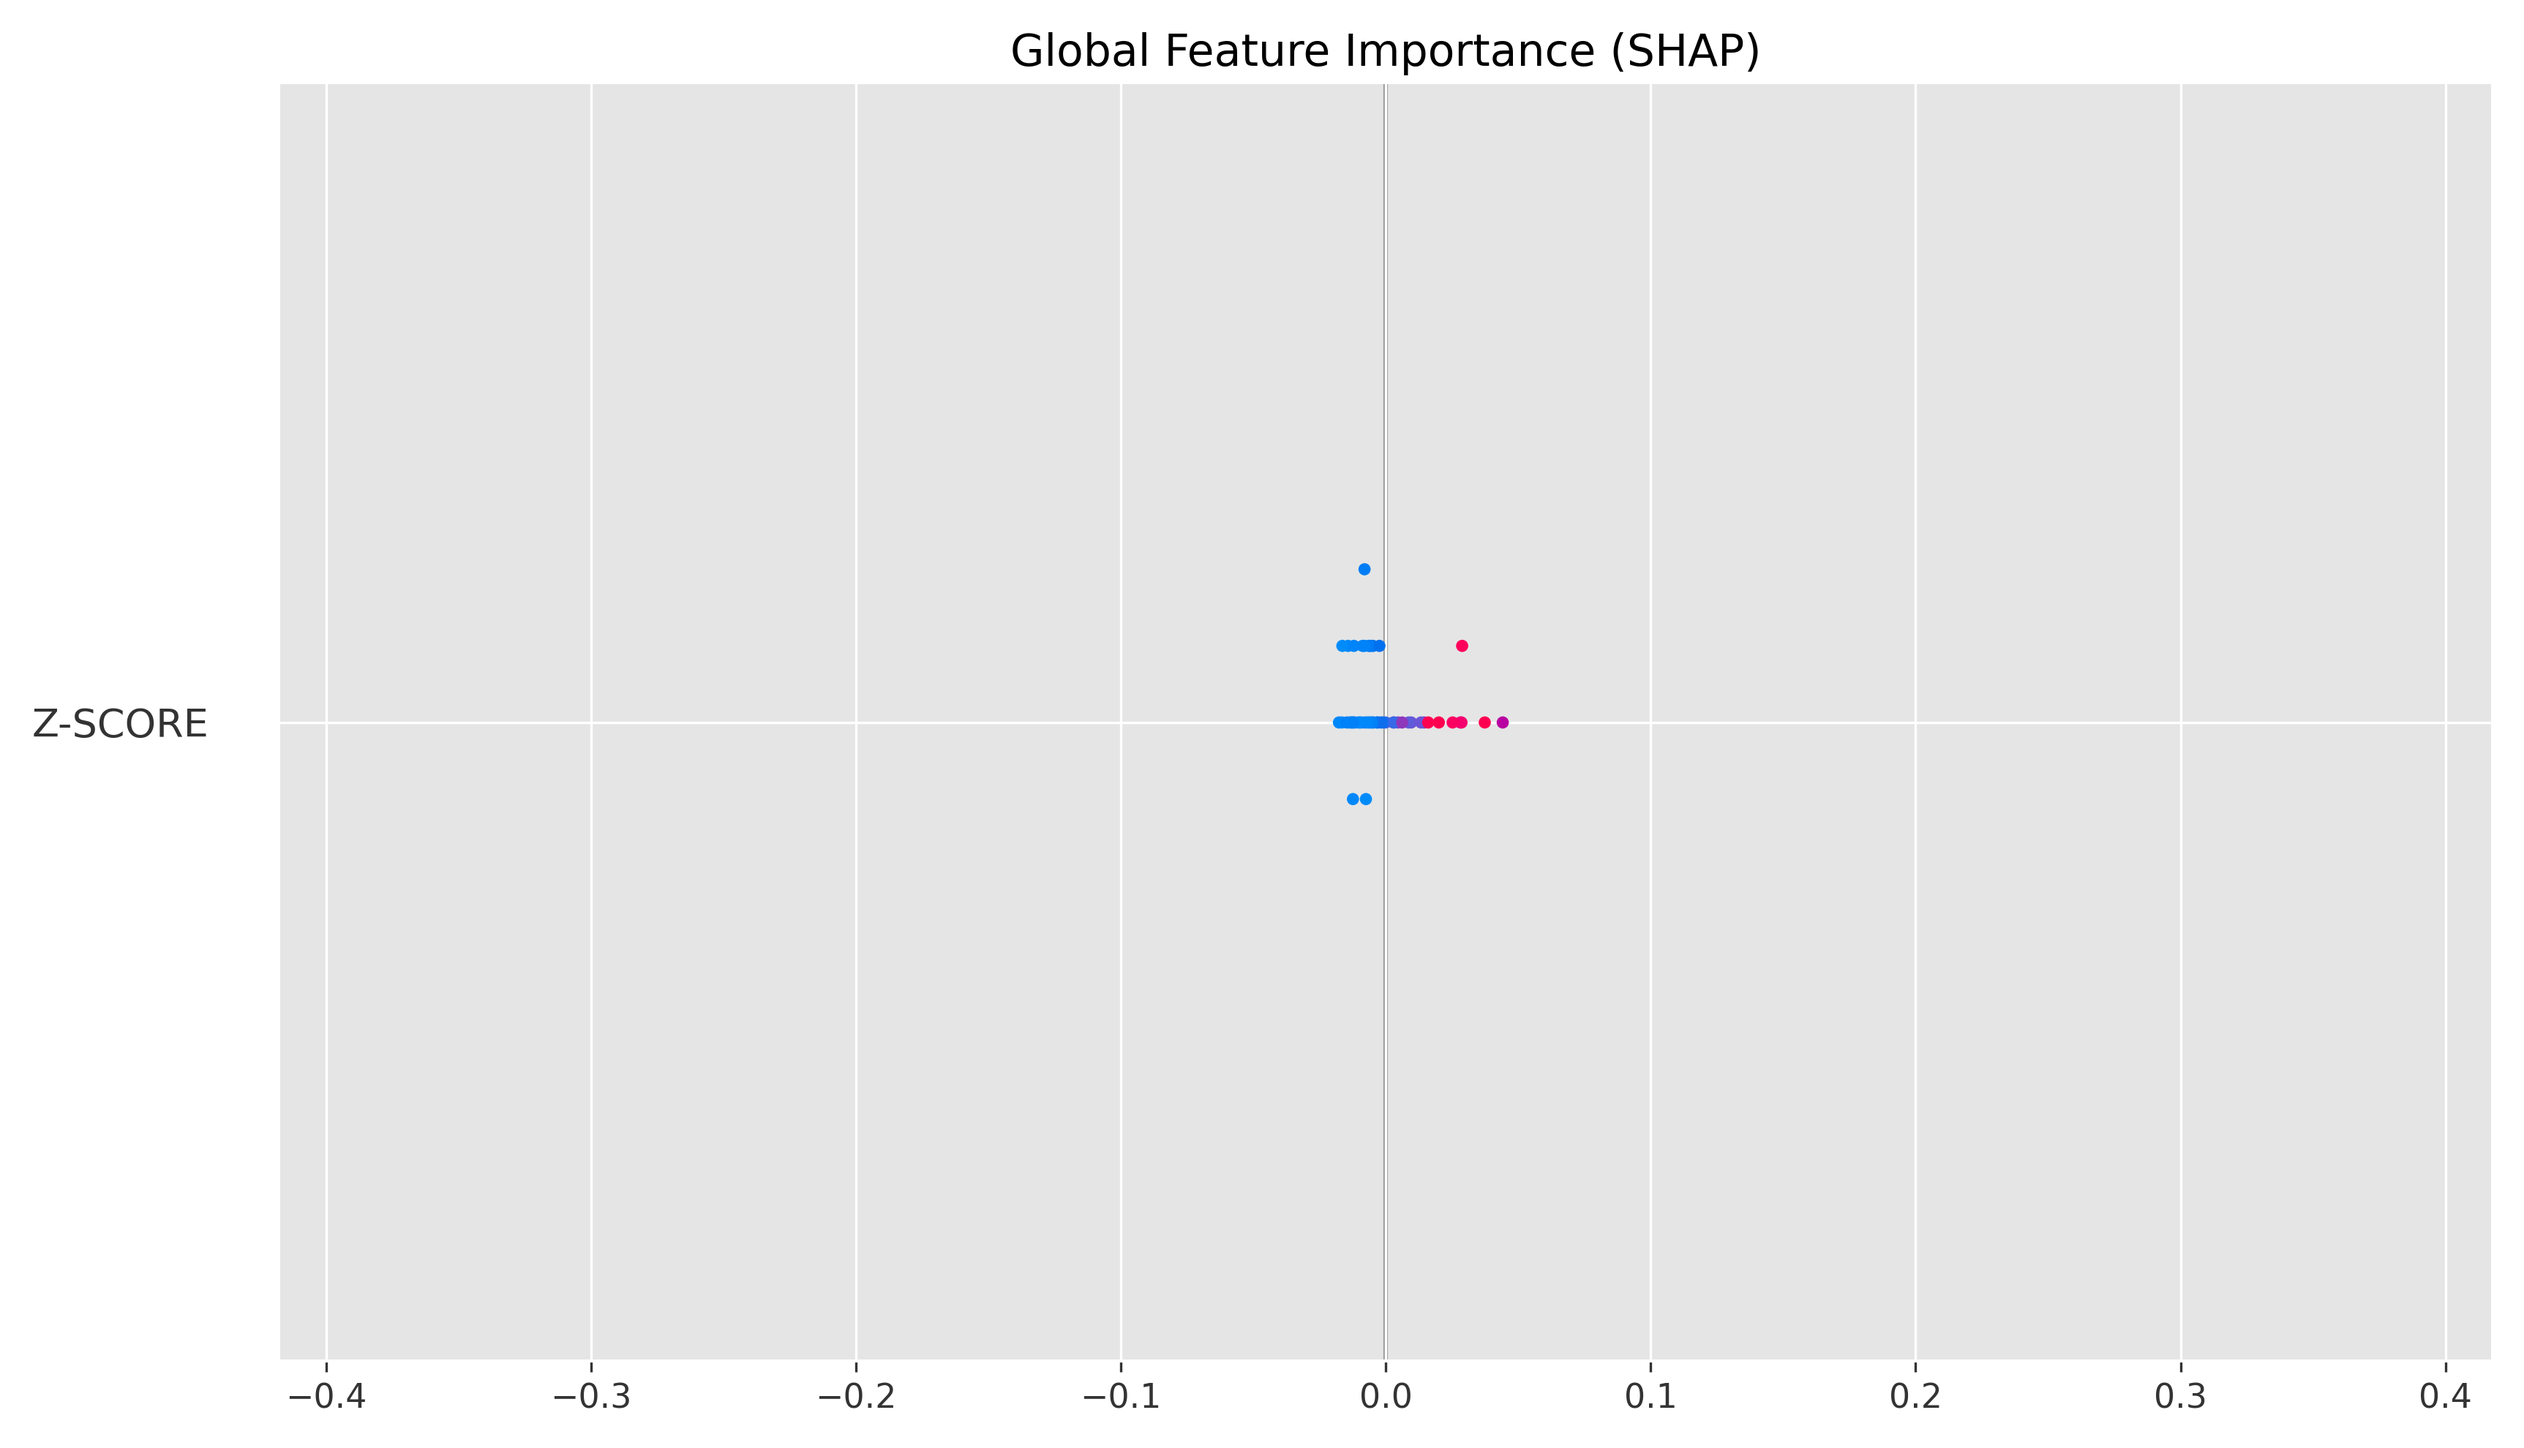
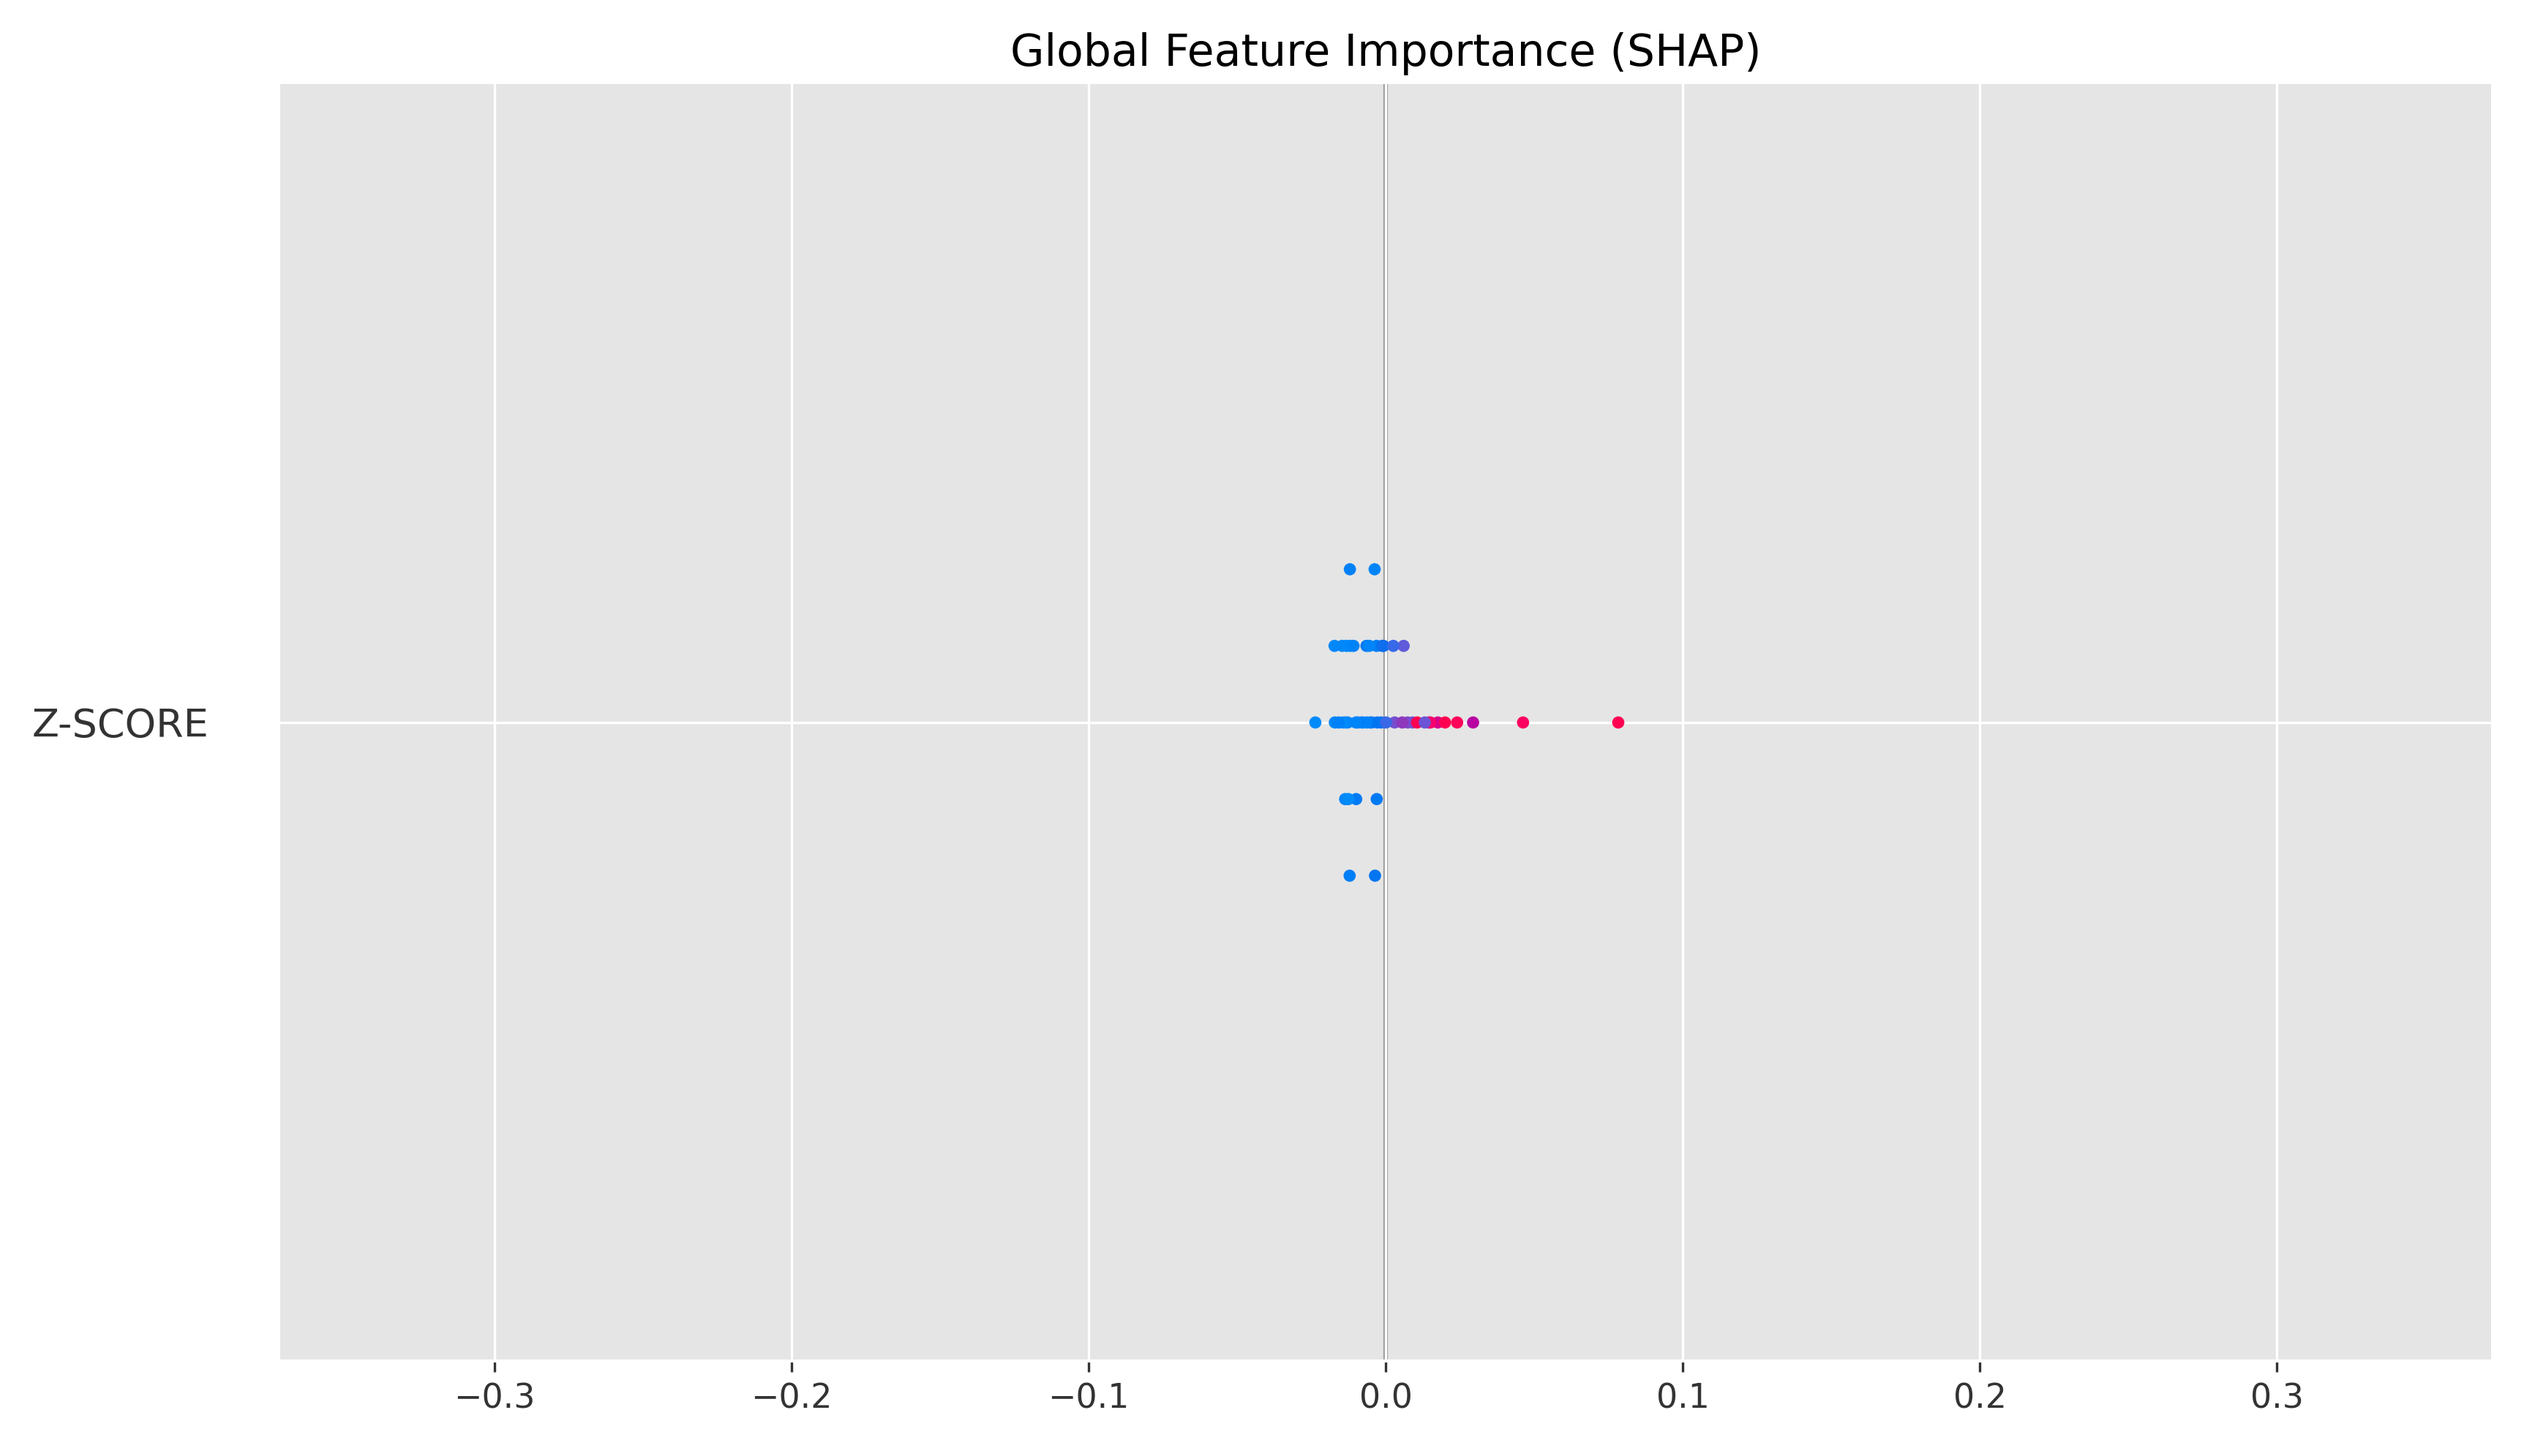
better shap

diff --git a/MLP.py b/MLP.py
@@ -259,6 +259,7 @@ def perform_shap_analysis(model, X_train_sample, X_test_sample, feature_names):
     1. 计算特征重要性
     2. 可视化全局特征重要性
     3. 可视化个体样本解释
+    4. 将特征重要性保存到evaluation_results.txt
     """
     print("\n正在进行SHAP分析...")
 
@@ -290,7 +291,34 @@ def perform_shap_analysis(model, X_train_sample, X_test_sample, feature_names):
         if isinstance(shap_values, list):
             shap_values = shap_values[0]  # 对于二分类问题取第一个元素
 
-        # 全局特征重要性
+        # 计算全局特征重要性(取绝对值后求平均)
+        global_shap_values = np.abs(shap_values).mean(axis=0)
+
+        # 确保feature_names和global_shap_values都是一维的
+        if len(feature_names) != len(global_shap_values):
+            raise ValueError(
+                f"特征名称数量({len(feature_names)})与SHAP值数量({len(global_shap_values)})不匹配"
+            )
+
+        # 确保global_shap_values是一维的
+        if global_shap_values.ndim > 1:
+            global_shap_values = global_shap_values.flatten()
+
+        # 创建特征重要性DataFrame
+        feature_importance = pd.DataFrame(
+            {"feature": feature_names, "importance": global_shap_values}
+        ).sort_values("importance", ascending=False)
+
+        # 将特征重要性追加到evaluation_results.txt
+        with open("MLP/evaluation_results.txt", "a") as f:
+            f.write("\n\n=== SHAP特征重要性 ===\n")
+            f.write("特征名称\t重要性得分\n")
+            for _, row in feature_importance.iterrows():
+                f.write(f"{row['feature']}\t{row['importance']:.6f}\n")
+
+        print("特征重要性已保存到evaluation_results.txt")
+
+        # 全局特征重要性可视化
         plt.figure(figsize=(10, 6))
         shap.summary_plot(
             shap_values,
